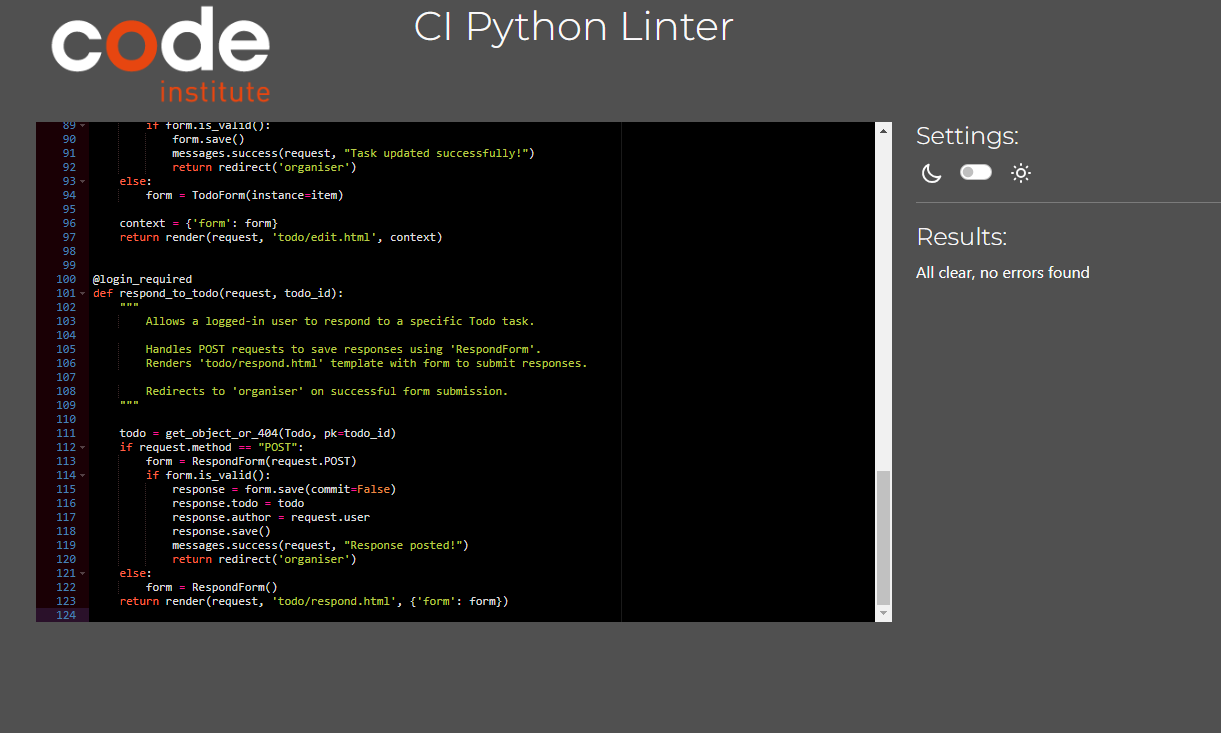
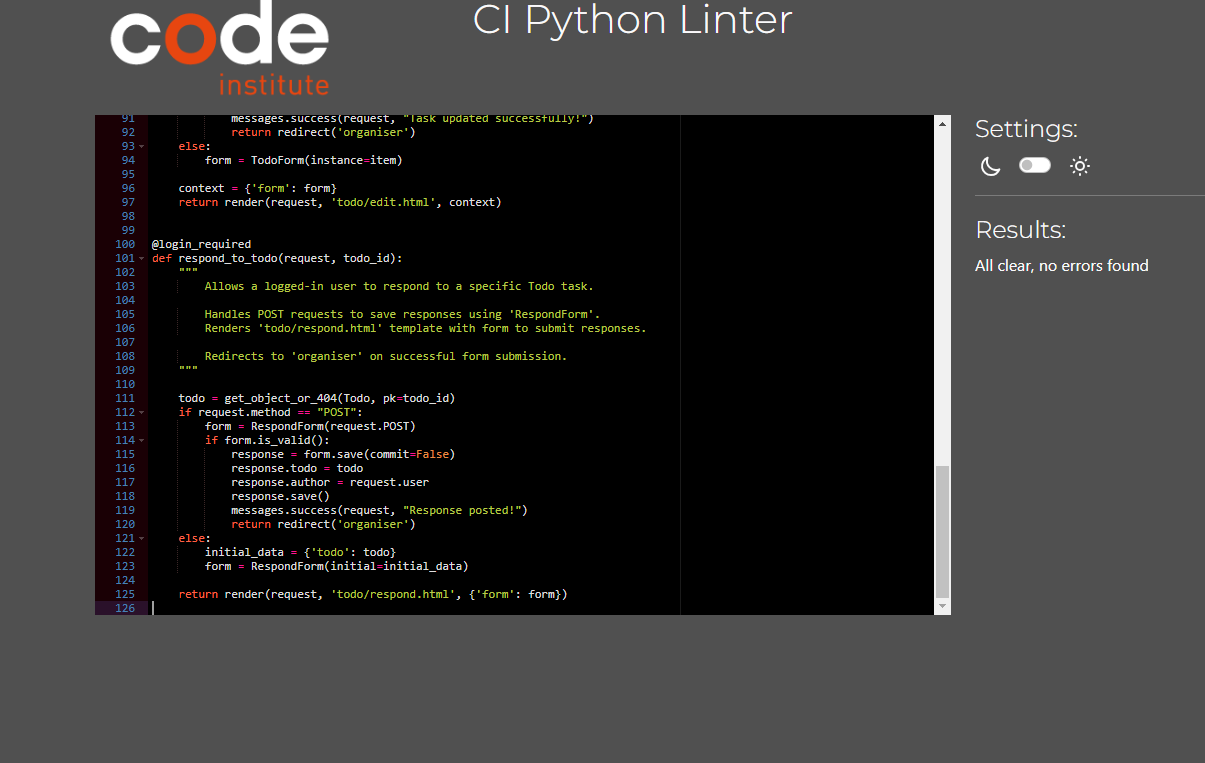
solved html style issue and updated some readme

Changed region(s): [[0.0307, 0.0, 0.9519, 0.8704], [0.3378, 0.0, 0.6448, 0.06]]

diff --git a/static/css/styles.css b/static/css/styles.css
@@ -122,19 +122,3 @@ p {
     padding-right:30px;
     margin-top:60px;
 }
-.hero-background {
-    /* Set the background image */
-    background-image: url('static/images/family.png');
-    
-    /* Cover the entire area of the container */
-    background-size: cover;
-    
-    /* Center the background image */
-    background-position: center;
-    
-    /* Prevent the background image from repeating */
-    background-repeat: no-repeat;
-    
-    /* Ensure the background image covers the full height of the container */
-    min-height: 300px; /* Adjust based on your needs */
-}

diff --git a/todo/templates/todo/welcome.html b/todo/templates/todo/welcome.html
@@ -9,7 +9,7 @@
     <section class="position-relative centered-text container-fluid">
     
         <h1 class="position-absolute end-0 d-none d-md-block moto">Quality Time Together!</h1>
-        <img src="{% static '/images/family.png'%}" class= "z-index-1 hero" height= "auto" width= "100%" 
+        <img src="{% static '/images/family.png'%}" class= "z-index-1 hero" style="width:100%; height: auto;" 
             alt="Family enjoying free time">
     </section>
 

diff --git a/todo/migrations/0005_respond.py b/todo/migrations/0005_respond.py
@@ -16,11 +16,11 @@ class Migration(migrations.Migration):
         migrations.CreateModel(
             name='Respond',
             fields=[
-                ('id', models.BigAutoField(auto_created=True, primary_key=True, serialize=False, verbose_name='ID')),
+                ('id', models.BigAutoField(auto_created=True, primary_key=True, serialize=False, verbose_name='ID')),  # noqa
                 ('response_text', models.TextField()),
                 ('date_added', models.DateTimeField(auto_now_add=True)),
-                ('author', models.ForeignKey(on_delete=django.db.models.deletion.CASCADE, related_name='responses', to=settings.AUTH_USER_MODEL)),
-                ('todo', models.ForeignKey(on_delete=django.db.models.deletion.CASCADE, related_name='responses', to='todo.todo')),
+                ('author', models.ForeignKey(on_delete=django.db.models.deletion.CASCADE, related_name='responses', to=settings.AUTH_USER_MODEL)),  # noqa
+                ('todo', models.ForeignKey(on_delete=django.db.models.deletion.CASCADE, related_name='responses', to='todo.todo')),  # noqa
             ],
         ),
     ]

diff --git a/todo/migrations/0004_todo_allocated_to_alter_todo_author.py b/todo/migrations/0004_todo_allocated_to_alter_todo_author.py
@@ -16,11 +16,11 @@ class Migration(migrations.Migration):
         migrations.AddField(
             model_name='todo',
             name='allocated_to',
-            field=models.ForeignKey(blank=True, null=True, on_delete=django.db.models.deletion.CASCADE, related_name='allocated_todos', to=settings.AUTH_USER_MODEL),
+            field=models.ForeignKey(blank=True, null=True, on_delete=django.db.models.deletion.CASCADE, related_name='allocated_todos', to=settings.AUTH_USER_MODEL),   # noqa
         ),
         migrations.AlterField(
             model_name='todo',
             name='author',
-            field=models.ForeignKey(on_delete=django.db.models.deletion.CASCADE, related_name='todo', to=settings.AUTH_USER_MODEL),
+            field=models.ForeignKey(on_delete=django.db.models.deletion.CASCADE, related_name='todo', to=settings.AUTH_USER_MODEL),   # noqa
         ),
     ]

diff --git a/todo/migrations/0003_alter_todo_author.py b/todo/migrations/0003_alter_todo_author.py
@@ -17,7 +17,7 @@ class Migration(migrations.Migration):
             model_name='todo',
             name='author',
             field=models.ForeignKey(default=1,
-                                    on_delete=django.db.models.deletion.CASCADE,
-                                    related_name='todo', to=settings.AUTH_USER_MODEL),
+                                    on_delete=django.db.models.deletion.CASCADE,  # noqa
+                                    related_name='todo', to=settings.AUTH_USER_MODEL),  # noqa
         ),
     ]

diff --git a/todo/migrations/0002_todo_author.py b/todo/migrations/0002_todo_author.py
@@ -17,7 +17,7 @@ class Migration(migrations.Migration):
             model_name='todo',
             name='author',
             field=models.ForeignKey(default=1,
-                                    on_delete=django.db.models.deletion.CASCADE,
+                                    on_delete=django.db.models.deletion.CASCADE,  # noqa
                                     related_name='todos',
                                     to=settings.AUTH_USER_MODEL),
         ),

diff --git a/todo/views.py b/todo/views.py
@@ -121,7 +121,5 @@ def respond_to_todo(request, todo_id):
     else:
         initial_data = {'todo': todo}
         form = RespondForm(initial=initial_data)
-    
-    
+
     return render(request, 'todo/respond.html', {'form': form})
-       

diff --git a/README.md b/README.md
@@ -1,7 +1,7 @@
 <h1 align="center">Family Organiser</h1>
 
 <p align="center">
-<img src="static/images/responsive.png" width="600" height="100%">
+<img src="static/images/responsive.png" width="1000" height="100%">
 </p>
 
 This is a full-stack framework project built using Django, Python, HTML and CSS. My goal is to create a functioning and responsive website, that allows users to post tasks, comment/respond to tasks allocated to them and have an organised easy to read and understand, management system to refer to. This project has been built for the purpose of helping busy families who are looking for a task management solution, to ease their day to day lives, and assist in freeing up time to spend with their families.
@@ -23,17 +23,27 @@ This page is primarily targeted at busy families who are looking for a task mana
 
 4. [Wireframes](#wireframes)
 
-5. [Database schema](#database-schema)
+5. [Agile](#Agile)
 
-6. [Surface](#surface)
+6. [Database schema](#database-schema)
 
-7. [Technologies Used](#technologies-used)
+7. [Surface](#surface)
 
-8. [Testing](#testing)
+8. [Technologies Used](#technologies-used)
 
-9. [Deployment](#deployment)
+9. [Testing](#testing)
 
-10. [Credits](#credits)
+10. [Validation](#validation)
+
+11. [Bugs and Issues](#bugs-and-issues)
+
+12. [Responsive](#responsive)
+
+13. [Browser Capability](#browser-capability)
+
+13. [Deployment](#deployment)
+
+14. [Credits](#credits)
 
 #
 # UX
@@ -81,7 +91,7 @@ This website will offer all of these things whilst also allowing for intuitive n
 **Epic: Administrative Features**
 - As a site Admin I can access the dashboard so that I can manage users that are no longer part of the families site
 
-# Scope 
+## **Scope** 
 - The Family Organiser MVP aims to deliver essential features to help busy families manage their tasks and activities effectively.
   The initial version focuses on providing a streamlined and functional task management system with the following core features:
 
@@ -219,8 +229,17 @@ Wireframes for each device are linked here:
 - [Tablet](assets/documents/tablet_wireframes/)
 - [Mobile](assets/documents/mobile_wireframes/)
 
+# Agile
+
+This project used Agile principles via a projectboard on Github. 
+This helped me keep focus and stay on track, using the user stories and acceptance criteria as a roadmap.
+All user stories were given MoSCoW labels.
+<p align="center">
+<img src="staticfiles/images/Kanban.png" width="900" height="100%">
+</p>
 
 # Database schema
+ I used LucidChart to create the diagram and the arrow represent how the data fields relate to one another.
 
 <p align="center">
 <img src="static/images/database.png" width="900" height="100%">
@@ -328,25 +347,25 @@ Wireframes for each device are linked here:
 **EPIC: User Registration and Authentication**
 1. As a new user I can register an account so that I can access and allocate tasks to the site
 <p align="center">
-<img src="static/images/sign_in.png" width="500" height="300">
+<img src="static/images/sign_in.png" width="600" height="100%">
 </p>
 
 2. As a registered user I can log in to my account so that I can update access and delete tasks on the site
 <p align="center">
-<img src="static/images/sign_in.png" width="500" height="300">
+<img src="static/images/sign_in.png" width="600" height="100%">
 </p>
 
 **EPIC: Viewing Tasks and Responses**
 1. As a logged-in User I can view a list of tasks so that I can browse through and respond or read tasks 
   allocated to me
 <p align="center">
-<img src="static/images/task_list.png" width="500" height="300">
+<img src="static/images/task_list.png" width="600" height="100%">
 </p>
 
 2. As a logged-in User I can view information about tasks so that I can see what needs doing or attending, and 
   act upon those task
 <p align="center">
-<img src="static/images/our_organiser.png" width="300" height="200">
+<img src="static/images/our_organiser.png" width="600" height="100%">
 </p>
 
 
@@ -359,10 +378,10 @@ Wireframes for each device are linked here:
 
 2. As a logged-in User I can edit tasks I have made so that I can update or amend them
 <p align="center">
-<img src="static/images/update_success.png" width="500" height="100%">
+<img src="static/images/update_success.png" width="600" height="100%">
 </p>
 <p align="center">
-<img src="static/images/Edit_refused.png" width="500" height="100%">
+<img src="static/images/Edit_refused.png" width="600" height="100%">
 </p>
 
 3. As a logged-in User I can respond to tasks i have been allocated so that i can update the author 
@@ -377,9 +396,21 @@ Wireframes for each device are linked here:
 </p>
 
 
-This project was tested by accessing the Django Admin Panel. By creating a Superuser we can access the Django Admin Panel where the administrator can perform all the CRUD functionalities
+ This project was tested by accessing the Django Admin Panel.
+ By creating a Superuser we can access the Django Admin Panel where the administrator can perform all the CRUD functionalities
 
 ## Code Validation
+
+## HTML
+
+| Page | W3C URL | Screenshot | Notes |
+| --- | --- | --- | --- |
+| Home | [W3C](https://django-todo-list-8dadfd1a4ba3.herokuapp.com/) | ![home page validate]() | Pass: button is a descendant of a tag |
+| Our Organiser | [W3C](https://django-todo-list-8dadfd1a4ba3.herokuapp.com/index/) | ![Validate Our Organiser page](static/images/index_validation.png) | Pass: No Errors |
+| Sign In| [W3C](https://django-todo-list-8dadfd1a4ba3.herokuapp.com/accounts/login/) | ![validate sign in](static/images/signin_validation.png) | Pass: No Errors |
+| Sign Up| [W3C](https://django-todo-list-8dadfd1a4ba3.herokuapp.com/accounts/signup/) | ![validate sign up]() | error message?|
+
+## CSS
 
  [W3C CSS Validator](https://jigsaw.w3.org/css-validator/) - was used to validate CSS
  no errors or warnings to show.
@@ -387,18 +418,52 @@ This project was tested by accessing the Django Admin Panel. By creating a Super
  <img src="static/images/css_validation.png" width="1000" height="100%">
  </p>
 
- [CI Python Validator](https://pep8ci.herokuapp.com/) - was used to validate Python
+ 
+## Python
+
+ [CI Python Validator](https://pep8ci.herokuapp.com/) - was used to validate Python Files.
+ Errors with white spaces, blank lines, and long lines corrected.
+ Migrations also tested and clear of errors.
+
+  models.py
  <p align="center">
- Errors with white spaces and blank lines, corrected.
  <img src="static/images/models_validation.png" width="1000" height="100%">
+ </p>
+ todo_site urls.py
+ <p align="center">
  <img src="static/images/url_validation.png" width="1000" height="100%">
- <img src="static/images/url_validation.png" width="1000" height="100%">
+ </p>
+ views.py
+ <p align="center">
+ <img src="static/images/views_validation.png" width="1000" height="100%">
+ </p>
+ settings.py
+ <p align="center">
  <img src="static/images/settings_validation.png" width="1000" height="100%">
+ </p>
+ forms.py
+ <p align="center">
+ <img src="static/images/forms_validation.png" width="1000" height="100%">
+ </p>
+ apps.py
+ <p align="center">
+ <img src="static/images/apps_validation.png" width="1000" height="100%">
+ </p>
+ admin.py
+ <p align="center">
+ <img src="static/images/admin_validation.png" width="1000" height="100%">
+ </p> 
+ todo urls.py
+ <p align="center">
+ <img src="static/images/todo_url_validation.png" width="1000" height="100%">
  </p>
 
 
 
 ## Bugs and Issues
+
+I used stackoverflow, code Institue coding coach and facilitator, along with Google searches to assist with solviing issues and bugs.
+
 - I had a problem where my edit button would not function. 
   The error was corrected by moving the cancel and confirm button so it was inside the form.
 
@@ -410,7 +475,80 @@ This project was tested by accessing the Django Admin Panel. By creating a Super
 
 - Had an issue with the submit button, there had been a center element used  which is now obsolete, fixed it by using css.
 
-# Deployment
+
+## Responsive
+ Development tools were used to test responsiveness on varying sized devices including laptop, mobile and iPad Air size. Full testing was
+ performed on acer laptop Aspir3 15.6inch.
+
+ - Welcome page
+
+ Mobile
+ <p align="center">
+ <img src="static/images/welcone_mobile.png" width="1000" height="100%">
+ </p>
+
+ iPad Air
+ <p align="center">
+ <img src="static/images/welcome_ipad.png" width="1000" height="100%">
+ </p>
+
+ Laptop L 1440px
+ <p align="center">
+ <img src="static/images/welcome_1440.png" width="1000" height="100%">
+ </p>
+
+ - Our Organiser Page
+
+ Mobile
+ <p align="center">
+ <img src="static/images/organise_mobile.png" width="1000" height="100%">
+ </p>
+
+ iPad Air
+ <p align="center">
+ <img src="static/images/organise_ipad.png" width="1000" height="100%">
+ </p>
+  
+ Laptop L 1440px
+ <p align="center">
+ <img src="static/images/organise_1440.png" width="1000" height="100%">
+ </p>
+
+
+ - Sign In Page
+ 
+ Mobile
+ <p align="center">
+ <img src="static/images/sign_in_mobile.png" width="1000" height="100%">
+ </p>
+
+ iPad Air
+ <p align="center">
+ <img src="static/images/signin_ipad.png" width="1000" height="100%">
+ </p>
+
+ Laptop L 1440px
+ <p align="center">
+ <img src="static/images/signin_1440.png" width="1000" height="100%">
+ </p>
+
+## Browser Capability
+I have tested the site using the following browsers:
+
+* Google Chrome
+
+![chrome]()
+
+
+* Microsoft Edge
+
+![microsoft edge](https://github.com/hiboibrahim/thebookbooth1/assets/144109298/1570a9cd-6591-45db-840b-ecbe7f7aeb5b)
+
+
+I can confirm that the site is responsive and looks as expected good on different screen sizes.
+
+
+## Deployment
 This project was deployed using Github and Heroku.
 
 ## Github 
